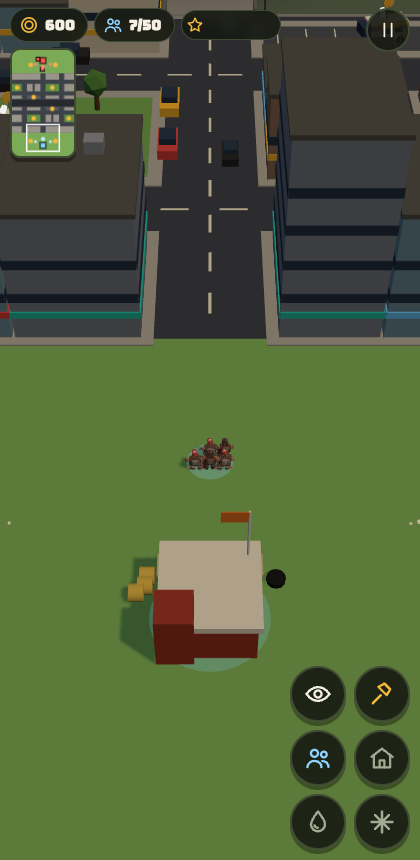
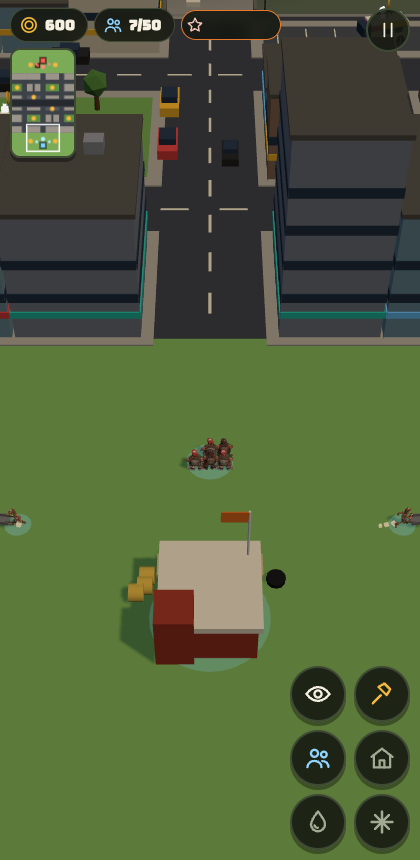
B82: AI garrisons towers: when enemies come within 24 m of one of its empty towers, the computer sends its nearest ranged squad (else pike/melee) within 45 m to climb in; garrisoned or entering squads are left out of waves and threat responses. Garrisoned in 3 of 6 AI-vs-AI test matches; round robin
Claude-Session: https://claude.ai/code/session_01FXzpagnksiDmMAqP3MTiXJ

diff --git a/src/main.js b/src/main.js
@@ -1,22 +1,22 @@
 // Entry point: wires sim + render + input + UI and runs the fixed-step loop.
-import { renderer, scene, camera, followSun, THREE } from './render/scene.js?v=81';
-import { buildWorld, updateWorld } from './render/world.js?v=81';
-import { syncRender, clearRender, bump } from './render/sync.js?v=81';
-import { handleEvents, updateFx, clearFx } from './fx/fx.js?v=81';
-import { newSim, getSim, step } from './sim/sim.js?v=81';
-import { TICK } from './config/factions.js?v=81';
-import { CAM, applyCam, resetCam, onResize } from './camera/camera.js?v=81';
-import { initInput, lockPageZoom } from './input/input.js?v=81';
-import { refreshHUD, resetHUD, updatePlaceBar } from './ui/hud.js?v=81';
-import { resetUI } from './ui/state.js?v=81';
-import { fillIcons, svg } from './ui/icons.js?v=81';
-import { noteAlerts, updateAlert, clearAlert } from './ui/alert.js?v=81';
-import { updateMinimap } from './ui/minimap.js?v=81';
-import { isMuted, setMuted } from './fx/sfx.js?v=81';
-import { loadChars } from './render/chars.js?v=81';
-import { FC } from './render/models.js?v=81';
+import { renderer, scene, camera, followSun, THREE } from './render/scene.js?v=82';
+import { buildWorld, updateWorld } from './render/world.js?v=82';
+import { syncRender, clearRender, bump } from './render/sync.js?v=82';
+import { handleEvents, updateFx, clearFx } from './fx/fx.js?v=82';
+import { newSim, getSim, step } from './sim/sim.js?v=82';
+import { TICK } from './config/factions.js?v=82';
+import { CAM, applyCam, resetCam, onResize } from './camera/camera.js?v=82';
+import { initInput, lockPageZoom } from './input/input.js?v=82';
+import { refreshHUD, resetHUD, updatePlaceBar } from './ui/hud.js?v=82';
+import { resetUI } from './ui/state.js?v=82';
+import { fillIcons, svg } from './ui/icons.js?v=82';
+import { noteAlerts, updateAlert, clearAlert } from './ui/alert.js?v=82';
+import { updateMinimap } from './ui/minimap.js?v=82';
+import { isMuted, setMuted } from './fx/sfx.js?v=82';
+import { loadChars } from './render/chars.js?v=82';
+import { FC } from './render/models.js?v=82';
 
-export const BUILD = 81; // written by `npm run bump`
+export const BUILD = 82; // written by `npm run bump`
 lockPageZoom();
 fillIcons();
 buildWorld();

diff --git a/src/sim/ai.js b/src/sim/ai.js
@@ -1,6 +1,6 @@
 // Computer opponent. Runs inside the sim tick, uses only S.rng.
-import { BLD, UPG, COUNTER, REQ, TRAIN_SLOTS } from '../config/factions.js?v=81';
-import { A, Q, pl, fac, count, barracksOf, hqOf, workersOf, setOrder, aliveN } from './sim.js?v=81';
+import { BLD, UPG, COUNTER, REQ, TRAIN_SLOTS } from '../config/factions.js?v=82';
+import { A, Q, pl, fac, count, barracksOf, hqOf, workersOf, setOrder, aliveN } from './sim.js?v=82';
 
 function aiSpot(S, p, kind, cx, cz, r0 = 7, r1 = 19) {
   for (let i = 0; i < 30; i++) {
@@ -86,7 +86,15 @@ export function aiStep(S, dt, pi = 1) {
     if (!s.retreat && k < 0.33 && Math.hypot(s.x - p.hqx, s.z - p.hqz) > 20) { s.retreat = true; setOrder(s, { type: 'move', x: p.hqx + (S.rng() - 0.5) * 10, z: p.hqz - p.side * 10 }); }
     else if (s.retreat && k > 0.9) s.retreat = false;
   }
-  const mine = S.squads.filter((s) => s.owner === pi && s.slot !== 'worker' && !s.retreat && s !== ai.escort);
+  // Garrison: when enemies come within 24 m of one of our empty towers, the nearest ranged squad (else any infantry) within 45 m climbs in.
+  for (const b of S.blds) {
+    if (b.owner !== pi || b.kind !== 'tower' || b.built < 1 || b.garrison) continue;
+    if (!S.squads.some((o) => o.owner !== pi && o.slot !== 'worker' && Math.hypot(o.x - b.x, o.z - b.z) < 24)) continue;
+    let q = null, bd = 45;
+    for (const o of S.squads) { if (o.owner !== pi || !(o.slot === 'ranged' || o.slot === 'pike' || o.slot === 'melee') || o.gar || o.retreat || o === ai.escort || o.order.type === 'enter') continue; const d = Math.hypot(o.x - b.x, o.z - b.z) - (o.slot === 'ranged' ? 15 : 0); if (d < bd) { bd = d; q = o; } }
+    if (q) { setOrder(q, { type: 'enter', tower: b }); b.garrison = q.id; }
+  }
+  const mine = S.squads.filter((s) => s.owner === pi && s.slot !== 'worker' && !s.retreat && s !== ai.escort && !s.gar && s.order.type !== 'enter');
   const threat = S.squads.find((s) => s.owner === 1 - pi && s.slot !== 'worker' && Math.hypot(s.x - p.hqx, s.z - p.hqz) < 36);
   if (threat) { mine.forEach((s) => { if (s.order.type !== 'attack') setOrder(s, { type: 'attack', target: threat }); }); return; }
   const armyCp = mine.reduce((a, s) => a + s.def.cp, 0);

diff --git a/index.html b/index.html
@@ -6,7 +6,7 @@
 <meta name="viewport" content="width=device-width,initial-scale=1,maximum-scale=1,user-scalable=no,viewport-fit=cover">
 <link rel="preconnect" href="https://fonts.googleapis.com">
 <link rel="stylesheet" href="https://fonts.googleapis.com/css2?family=Bungee&family=Lilita+One&display=swap">
-<link rel="stylesheet" href="./src/ui/style.css?v=81">
+<link rel="stylesheet" href="./src/ui/style.css?v=82">
 <!-- No build step needed: GitHub Pages serves this file straight from main, so bare 'three' imports resolve here. -->
 <script type="importmap">
 { "imports": { "three": "./vendor/three/three.module.min.js", "three/examples/jsm/": "./vendor/three/jsm/" } }
@@ -33,7 +33,7 @@
 <div id="box"></div>
 <div id="holdRing" hidden></div>
 <div id="menu" class="overlay">
-  <h1>Culture <em>Wars</em><span>GREYBOX 04 · <b id="build">B81</b></span></h1>
+  <h1>Culture <em>Wars</em><span>GREYBOX 04 · <b id="build">B82</b></span></h1>
   <div class="diff" id="diff"><button type="button" data-d="0" aria-label="Easy"><span class="ic" data-i="star"></span></button><button type="button" data-d="1" class="on" aria-label="Normal"><span class="ic" data-i="star"></span><span class="ic" data-i="star"></span></button><button type="button" data-d="2" aria-label="Hard"><span class="ic" data-i="star"></span><span class="ic" data-i="star"></span><span class="ic" data-i="star"></span></button></div>
   <div class="picks">
     <button class="pick" data-f="bw" type="button"><span class="ic" data-i="truck"></span>Backwoods<small>FEWER · TOUGHER</small></button>
@@ -61,6 +61,6 @@
   setTimeout(function () { if (!window.__cwBooted) show('Game script did not start (old cached file? wait a few minutes and reload)'); }, 8000);
 })();
 </script>
-<script type="module" src="./src/main.js?v=81" onerror="__cwLoadFail()"></script>
+<script type="module" src="./src/main.js?v=82" onerror="__cwLoadFail()"></script>
 </body>
 </html>

diff --git a/src/render/sync.js b/src/render/sync.js
@@ -1,16 +1,16 @@
 // Mirrors sim state into the scene every frame. Reads the sim, never writes to it.
-import { THREE, scene, camera, mat, box, basic, ringMesh, disposeObj, casts } from './scene.js?v=81';
-import { makeMember, bldMesh, nodeMesh, formation, FC } from './models.js?v=81';
-import { makeChar, charsReady, play, CAST } from './chars.js?v=81';
-import { emit } from '../fx/particles.js?v=81';
-import { bark } from '../fx/sfx.js?v=81';
-import { TICK } from '../config/factions.js?v=81';
-import { walkH } from '../map/layout.js?v=81';
-import { NODE_AMOUNT, BLD, BUILD_RADIUS } from '../config/factions.js?v=81';
-import { Q, pl, getSim } from '../sim/sim.js?v=81';
-import { UI } from '../ui/state.js?v=81';
-import { fxConfetti, fxDeath } from '../fx/fx.js?v=81';
-import { lerpAngle } from '../util/math.js?v=81';
+import { THREE, scene, camera, mat, box, basic, ringMesh, disposeObj, casts } from './scene.js?v=82';
+import { makeMember, bldMesh, nodeMesh, formation, FC } from './models.js?v=82';
+import { makeChar, charsReady, play, CAST } from './chars.js?v=82';
+import { emit } from '../fx/particles.js?v=82';
+import { bark } from '../fx/sfx.js?v=82';
+import { TICK } from '../config/factions.js?v=82';
+import { walkH } from '../map/layout.js?v=82';
+import { NODE_AMOUNT, BLD, BUILD_RADIUS } from '../config/factions.js?v=82';
+import { Q, pl, getSim } from '../sim/sim.js?v=82';
+import { UI } from '../ui/state.js?v=82';
+import { fxConfetti, fxDeath } from '../fx/fx.js?v=82';
+import { lerpAngle } from '../util/math.js?v=82';
 // Selection rings take your faction colour, washed toward white so they still pop on any ground.
 const selCol = () => { const S = getSim(), f = S && S.players[0].f; return f ? new THREE.Color(FC[f].main).lerp(new THREE.Color(0xffffff), 0.35).getHex() : 0xffffff; };
 

diff --git a/src/ui/hud.js b/src/ui/hud.js
@@ -1,15 +1,15 @@
 // HUD: resource chips, context panel, command buttons, floating placement confirm, long-press labels.
 // Buttons are described as data ("specs") each refresh; the DOM is rebuilt only when the set of buttons changes.
 // Every action goes through sim.command(); Q.* is used only for instant feedback (shake, dim).
-import { svg } from './icons.js?v=81';
-import { UI, select, selSquads } from './state.js?v=81';
-import { getSim, pl, fac, Q, command, count, cpUsed, cpCap, hqOf } from '../sim/sim.js?v=81';
-import { BLD, BUILD_KINDS, TRAIN_SLOTS, UPG, REQ } from '../config/factions.js?v=81';
-import { CAM, toggleView, focus } from '../camera/camera.js?v=81';
-import { camera } from '../render/scene.js?v=81';
-import { walkH } from '../map/layout.js?v=81';
-import { THREE } from '../render/scene.js?v=81';
-import { showHint } from './hint.js?v=81';
+import { svg } from './icons.js?v=82';
+import { UI, select, selSquads } from './state.js?v=82';
+import { getSim, pl, fac, Q, command, count, cpUsed, cpCap, hqOf } from '../sim/sim.js?v=82';
+import { BLD, BUILD_KINDS, TRAIN_SLOTS, UPG, REQ } from '../config/factions.js?v=82';
+import { CAM, toggleView, focus } from '../camera/camera.js?v=82';
+import { camera } from '../render/scene.js?v=82';
+import { walkH } from '../map/layout.js?v=82';
+import { THREE } from '../render/scene.js?v=82';
+import { showHint } from './hint.js?v=82';
 
 const panelEl = document.getElementById('panel'), cmdEl = document.getElementById('cmd'), queueEl = document.getElementById('queue');
 const placeBar = document.getElementById('placeBar'), tipEl = document.getElementById('tip');

diff --git a/src/input/input.js b/src/input/input.js
@@ -4,13 +4,13 @@
 //   hold then drag  = box select
 //   2 fingers       = pinch zoom + twist to rotate + drag to pan
 //   mouse: right-drag = box select, wheel = zoom; keys WASD/arrows pan, Q/E rotate, V ghost cam, Esc cancel
-import { THREE, camera, canvas } from '../render/scene.js?v=81';
-import { walkH } from '../map/layout.js?v=81';
-import { getSim, command } from '../sim/sim.js?v=81';
-import { UI, select, selSquads } from '../ui/state.js?v=81';
-import { CAM, panBy, clampCam, toggleView, pxPerUnit } from '../camera/camera.js?v=81';
-import { fxMarker } from '../fx/fx.js?v=81';
-import { ack } from '../render/sync.js?v=81';
+import { THREE, camera, canvas } from '../render/scene.js?v=82';
+import { walkH } from '../map/layout.js?v=82';
+import { getSim, command } from '../sim/sim.js?v=82';
+import { UI, select, selSquads } from '../ui/state.js?v=82';
+import { CAM, panBy, clampCam, toggleView, pxPerUnit } from '../camera/camera.js?v=82';
+import { fxMarker } from '../fx/fx.js?v=82';
+import { ack } from '../render/sync.js?v=82';
 
 const ray = new THREE.Raycaster(), ndc = new THREE.Vector2(), tmp = new THREE.Vector3();
 export function groundAt(cx, cy) {

diff --git a/src/fx/fx.js b/src/fx/fx.js
@@ -1,12 +1,12 @@
 // Visual effects. Reads sim events, never changes the sim.
 // To add an effect for a new mechanic: emit S.events.push({k:'myThing', ...}) in the sim,
 // then add a case in handleEvents below.
-import { THREE, scene, mat, cyl, basic, disposeObj } from '../render/scene.js?v=81';
-import { walkH } from '../map/layout.js?v=81';
-import { sfx } from './sfx.js?v=81';
-import { shake, CAM } from '../camera/camera.js?v=81';
-import { FC } from '../render/models.js?v=81';
-import { emit, updateParticles, clearParticles, burstHit, burstShot, burstCoins } from './particles.js?v=81';
+import { THREE, scene, mat, cyl, basic, disposeObj } from '../render/scene.js?v=82';
+import { walkH } from '../map/layout.js?v=82';
+import { sfx } from './sfx.js?v=82';
+import { shake, CAM } from '../camera/camera.js?v=82';
+import { FC } from '../render/models.js?v=82';
+import { emit, updateParticles, clearParticles, burstHit, burstShot, burstCoins } from './particles.js?v=82';
 
 const fx = [];
 function addFx(obj, life, upd) { scene.add(obj); fx.push({ obj, life, t: 0, upd }); }

diff --git a/src/render/world.js b/src/render/world.js
@@ -1,9 +1,9 @@
 // Static city: streets, sidewalks, buildings, parks, freeway trench + overpasses, ambient traffic.
 // Built once from map/layout.js. Mostly InstancedMesh so it stays cheap on phones.
-import { THREE, scene, mat, box } from './scene.js?v=81';
-import { MAP, BLOCKS, TREES, PARKED, TRENCH, OVERPASSES, AVENUES, CROSS_STREETS, HOME_Z, inRect, walkH } from '../map/layout.js?v=81';
-import { hash } from '../util/math.js?v=81';
-import { emit } from '../fx/particles.js?v=81';
+import { THREE, scene, mat, box } from './scene.js?v=82';
+import { MAP, BLOCKS, TREES, PARKED, TRENCH, OVERPASSES, AVENUES, CROSS_STREETS, HOME_Z, inRect, walkH } from '../map/layout.js?v=82';
+import { hash } from '../util/math.js?v=82';
+import { emit } from '../fx/particles.js?v=82';
 
 const COL = {
   asphalt: 0x3d4148, sidewalk: 0xa8a49a, grass: 0x6f9e50, lawn: 0x7cab58, lot: 0x4b4f56, stripe: 0xe8e2c8,

diff --git a/src/sim/sim.js b/src/sim/sim.js
@@ -9,11 +9,11 @@
 import {
   TICK, START_CASH, BUILD_RADIUS, MAX_WORKERS, NODE_AMOUNT, GATHER_T, CARRY, BASE_INCOME, DEPOT_INCOME,
   COUNTER, REQ, UPG, UPT, BLD, FACTIONS,
-} from '../config/factions.js?v=81';
-import { MAP, NODES, BASES, walkH } from '../map/layout.js?v=81';
-import { markCircle, isBlocked, lineClear, nearestFree, findPath, blocked, cellOf, cellCenter, inGrid } from '../map/grid.js?v=81';
-import { mulberry32 } from '../util/math.js?v=81';
-import { aiStep } from './ai.js?v=81';
+} from '../config/factions.js?v=82';
+import { MAP, NODES, BASES, walkH } from '../map/layout.js?v=82';
+import { markCircle, isBlocked, lineClear, nearestFree, findPath, blocked, cellOf, cellCenter, inGrid } from '../map/grid.js?v=82';
+import { mulberry32 } from '../util/math.js?v=82';
+import { aiStep } from './ai.js?v=82';
 
 let S = null;
 export const getSim = () => S;

diff --git a/src/ui/minimap.js b/src/ui/minimap.js
@@ -1,8 +1,8 @@
 // Minimap, top-left under the resource chips. Fixed orientation: your base at the bottom (+z), enemy at the top.
 // Tap or drag on it to move the camera there. Static city is drawn once; units/buildings redraw ~10x a second.
-import { MAP, BLOCKS, TRENCH } from '../map/layout.js?v=81';
-import { CAM, focus } from '../camera/camera.js?v=81';
-import { getSim } from '../sim/sim.js?v=81';
+import { MAP, BLOCKS, TRENCH } from '../map/layout.js?v=82';
+import { CAM, focus } from '../camera/camera.js?v=82';
+import { getSim } from '../sim/sim.js?v=82';
 
 const cv = document.getElementById('mini'), ctx = cv.getContext('2d');
 const bg = document.createElement('canvas'), bctx = bg.getContext('2d');

diff --git a/src/ui/alert.js b/src/ui/alert.js
@@ -1,9 +1,9 @@
 // Under-attack alert: when something of yours is hit somewhere the camera is not looking, a red arrow pulses on
 // the screen edge pointing at it. Tap the arrow to fly there. Newest fight wins; it fades 5 s after the last hit.
-import { THREE, camera } from '../render/scene.js?v=81';
-import { walkH } from '../map/layout.js?v=81';
-import { focus } from '../camera/camera.js?v=81';
-import { svg } from './icons.js?v=81';
+import { THREE, camera } from '../render/scene.js?v=82';
+import { walkH } from '../map/layout.js?v=82';
+import { focus } from '../camera/camera.js?v=82';
+import { svg } from './icons.js?v=82';
 
 const el = document.getElementById('alert');
 el.innerHTML = svg('up');

diff --git a/src/render/chars.js b/src/render/chars.js
@@ -2,7 +2,7 @@
 // clips drives all of them: the clips come from three DONOR files and are retargeted onto each rig by bone name.
 // Nothing here is required: until the files load (or if they fail, e.g. the single-file artifact build) the
 // box placeholders in models.js are used, and sync.js swaps squads over once this reports ready.
-import { THREE } from './scene.js?v=81';
+import { THREE } from './scene.js?v=82';
 import { GLTFLoader } from 'three/examples/jsm/loaders/GLTFLoader.js';
 import { DRACOLoader } from 'three/examples/jsm/loaders/DRACOLoader.js';
 import { clone as skClone } from 'three/examples/jsm/utils/SkeletonUtils.js';
